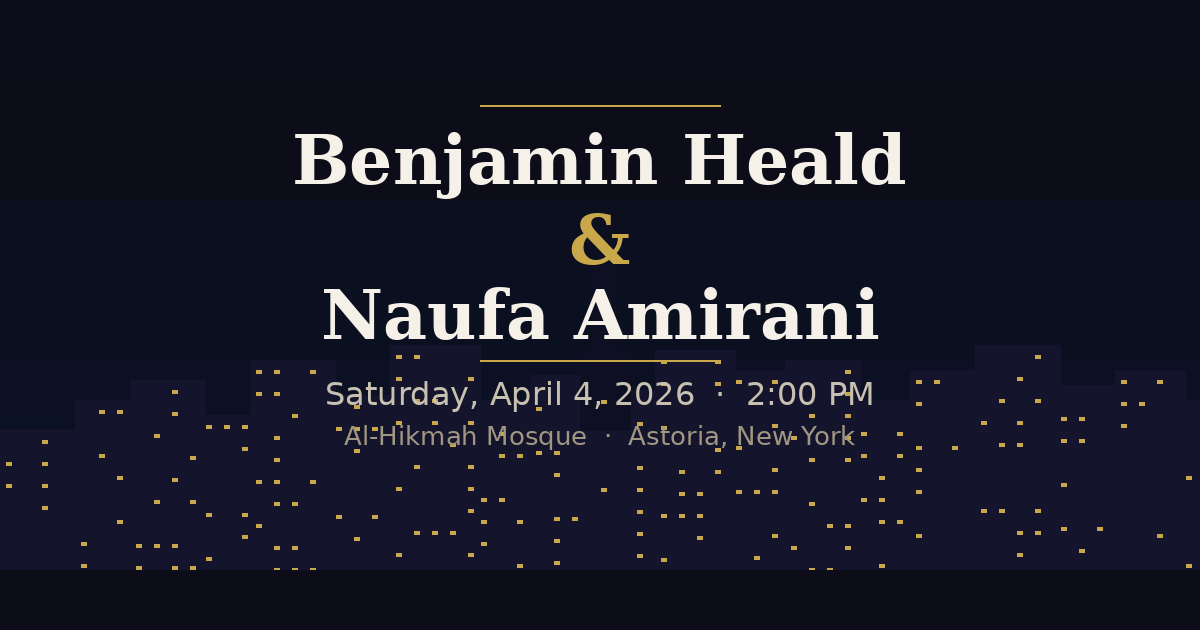
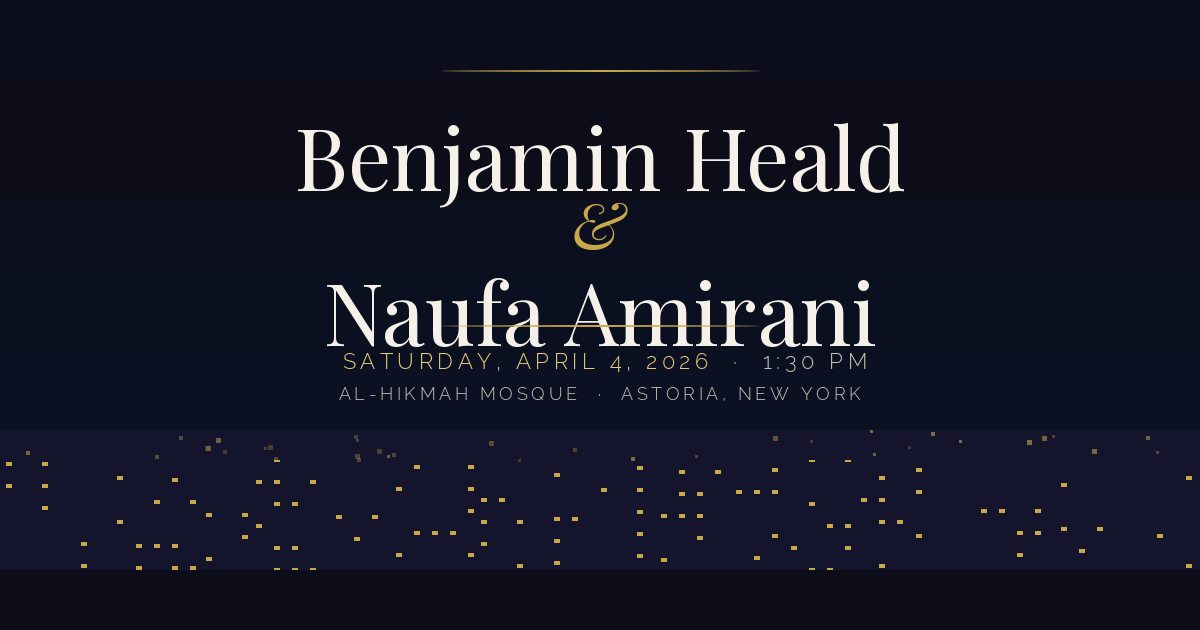
Update preview image to show 1:30 PM arrival time and raise text above skyline

diff --git a/index.html b/index.html
@@ -10,7 +10,7 @@
   <meta property="og:type"        content="website" />
   <meta property="og:url"         content="https://healdb.github.io/Weddingsite/" />
   <meta property="og:title"       content="RSVP for Ben &amp; Naufa's wedding!" />
-  <meta property="og:description" content="Join us to celebrate the wedding of Benjamin Heald and Naufa Amirani — Saturday, April 4, 2026 at 2:00 PM · Al-Hikmah Mosque, Astoria, NY." />
+  <meta property="og:description" content="Join us to celebrate the wedding of Benjamin Heald and Naufa Amirani — Saturday, April 4, 2026 at 1:30 PM · Al-Hikmah Mosque, Astoria, NY." />
   <meta property="og:image"       content="https://healdb.github.io/Weddingsite/preview.png" />
   <meta property="og:image:width"  content="1200" />
   <meta property="og:image:height" content="630" />
@@ -21,7 +21,7 @@
   <!-- Twitter / X Card (also used by some link-preview renderers) -->
   <meta name="twitter:card"        content="summary_large_image" />
   <meta name="twitter:title"       content="RSVP for Ben &amp; Naufa's wedding!" />
-  <meta name="twitter:description" content="Join us to celebrate the wedding of Benjamin Heald and Naufa Amirani — Saturday, April 4, 2026 at 2:00 PM · Al-Hikmah Mosque, Astoria, NY." />
+  <meta name="twitter:description" content="Join us to celebrate the wedding of Benjamin Heald and Naufa Amirani — Saturday, April 4, 2026 at 1:30 PM · Al-Hikmah Mosque, Astoria, NY." />
   <meta name="twitter:image"       content="https://healdb.github.io/Weddingsite/preview.png" />
   <meta name="twitter:image:alt"   content="Benjamin Heald &amp; Naufa Amirani — Wedding April 4, 2026" />
 
